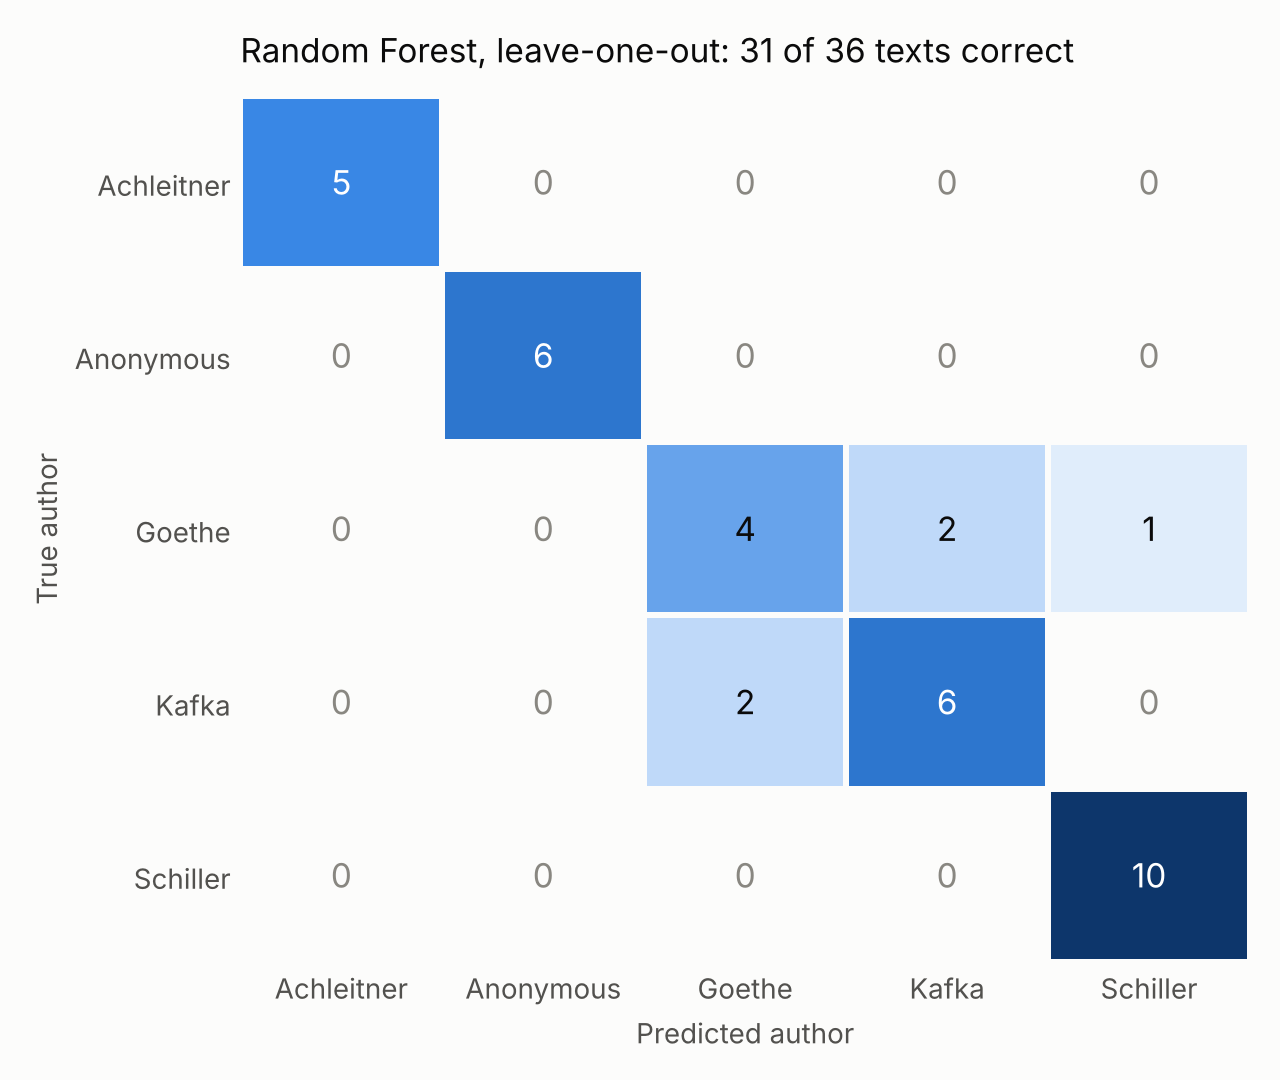
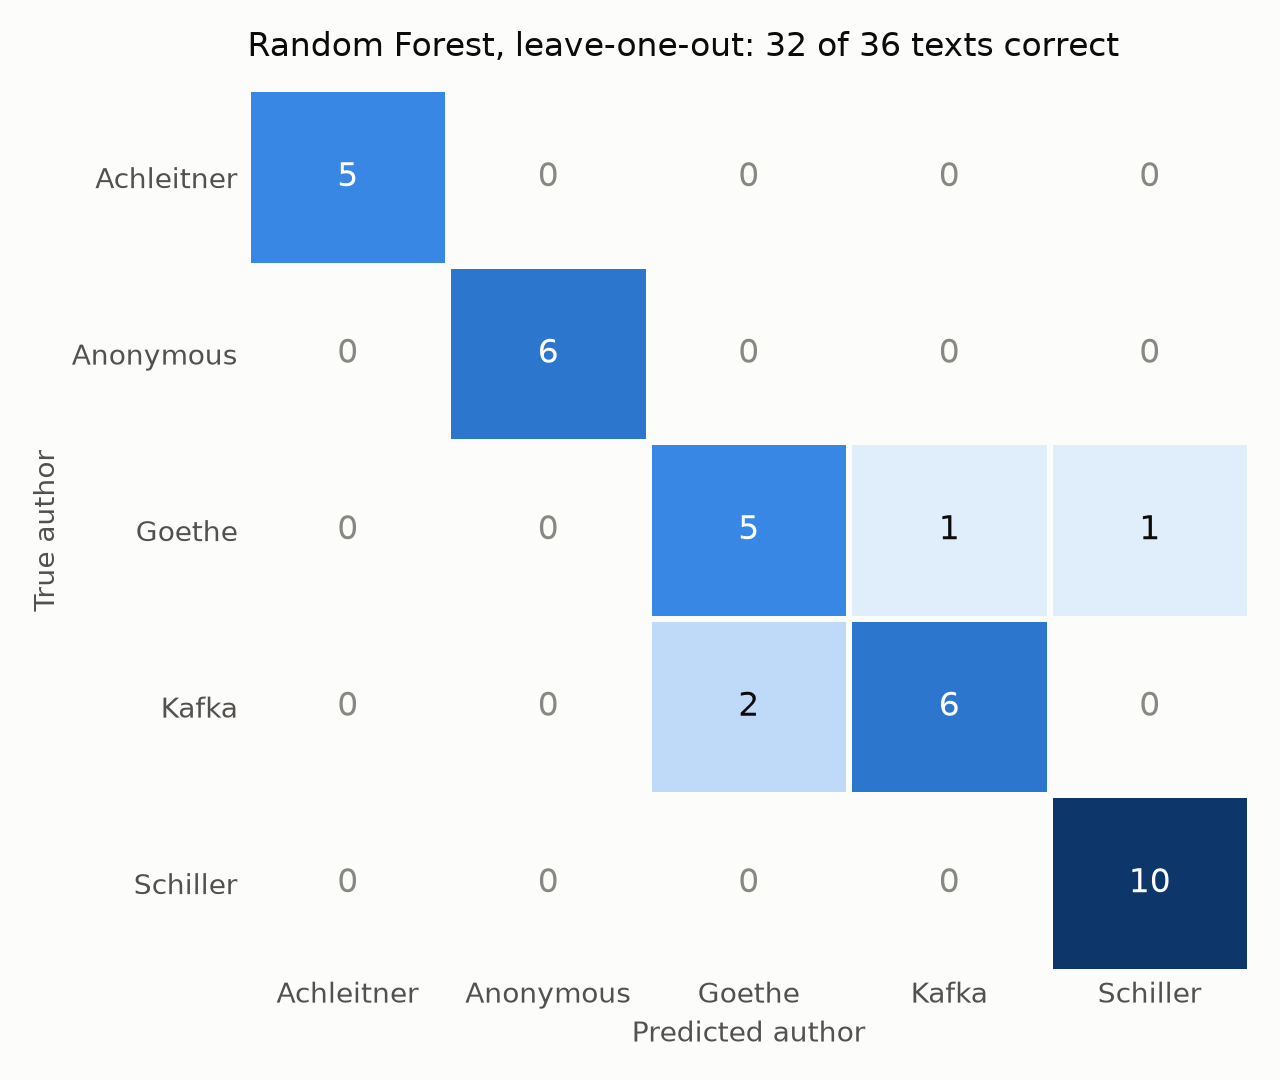
#5

diff --git a/README.md b/README.md
@@ -14,7 +14,7 @@ Can sentence length, punctuation and readability tell Goethe from Schiller? In t
 - **Task:** assign 36 public-domain texts to five authors (Goethe, Schiller, Kafka, Arthur Achleitner and an anonymous pulp series) using only *how* they are written, not *what* they are about.
 - **Features:** 12 stylometric measures per text, including two German readability indices I implemented from scratch.
 - **Models:** Decision Tree, Random Forest, linear SVM and a majority-vote ensemble (scikit-learn).
-- **Result:** the Random Forest reaches **87% accuracy** in repeated stratified cross-validation, against a 28% majority baseline (permutation test p = 0.005).
+- **Result:** the Random Forest reaches **89% accuracy** in repeated stratified cross-validation, against a 28% majority baseline (permutation test p = 0.005).
 - **Most interesting finding:** the models partly learned *genre* instead of *author*. All three classify Goethe's *Faust I* as Schiller.
 
 ## What I learned
@@ -37,27 +37,27 @@ Repeated stratified 5-fold cross-validation (20 repeats) on 36 texts:
 | Model | Accuracy (mean ± SD) | Macro-F1 |
 |---|---|---|
 | Majority baseline | 28% ± 1% | 0.09 |
-| Decision Tree | 70% ± 16% | 0.66 |
-| **Random Forest** | **87% ± 11%** | **0.84** |
-| Linear SVM | 83% ± 11% | 0.82 |
-| Linear SVM, 2 features (word + sentence length) | 70% ± 11% | 0.59 |
-| Voting ensemble (DT + RF + SVM) | 86% ± 11% | 0.85 |
+| Decision Tree | 68% ± 16% | 0.66 |
+| **Random Forest** | **89% ± 10%** | **0.87** |
+| Linear SVM | 81% ± 12% | 0.79 |
+| Linear SVM, 2 features (word + sentence length) | 56% ± 9% | 0.43 |
+| Voting ensemble (DT + RF + SVM) | 84% ± 12% | 0.83 |
 
-Permutation test (Random Forest): 84% accuracy with the real labels vs. 22% with shuffled labels, p = 0.005.
+Permutation test (Random Forest): 92% accuracy with the real labels vs. 22% with shuffled labels, p = 0.005.
 
 <p align="center">
-  <img src="figures/confusion_matrix_rf_loo.png" width="520" alt="Confusion matrix of the Random Forest in leave-one-out validation: 31 of 36 texts correct. Errors: two Goethe texts predicted as Kafka, two Kafka texts as Goethe, Faust I as Schiller.">
+    <img src="figures/confusion_matrix_rf_loo.png" width="520" alt="Confusion matrix of the Random Forest in leave-one-out validation: 32 of 36 texts correct. Errors: Faust I predicted as Schiller, Wilhelm Meisters Lehrjahre as Kafka, Die Verwandlung and Ein Hungerkünstler as Goethe.">
 </p>
 
 ### Findings
 
-**1. The models partly learn genre, not author.** Every Schiller text in this corpus is a drama, and dramas consist of short dialogue lines. All 12 dramas average fewer than 14 words per sentence, all 24 prose texts more. As a result, the Decision Tree, the Random Forest and the SVM all classify Goethe's *Faust I* as Schiller in leave-one-out validation.
+**1. The models partly learn genre, not author.** Every Schiller text in this corpus is a drama, and dramas consist of short dialogue lines. All ten Schiller plays and *Faust I* average fewer than 10 words per sentence, while no prose text averages fewer than 12.7. As a result, the Decision Tree, the Random Forest and the SVM all classify Goethe's *Faust I* as Schiller in leave-one-out validation. *Faust II*, at 13.6 words per sentence, falls among the shortest prose texts, and none of the models takes it for Schiller.
 
-![Average sentence length per text by author: every drama is below 14 words per sentence, every prose text above](figures/sentence_length_by_genre.png)
+![Average sentence length per text by author: the Schiller plays and Faust I are below 10 words per sentence, all prose texts above 12; Faust II lies among the shortest prose texts](figures/sentence_length_by_genre.png)
 
-**2. Goethe vs. Kafka is the hard case.** Four of the Random Forest's five leave-one-out errors are Goethe ↔ Kafka confusions. Both write long, comma-heavy sentences, which these surface features cannot tell apart.
+**2. Goethe vs. Kafka is the hard case.** Three of the Random Forest's four leave-one-out errors are Goethe ↔ Kafka confusions. Besides *Faust I*, two texts are misclassified by all three models: *Wilhelm Meisters Lehrjahre* as Kafka and *Ein Hungerkünstler* as Goethe. In their prose, both authors average about 22 words per sentence, against about 15 for Achleitner and the *Luftpirat* series, and both use more commas. These surface features cannot tell them apart.
 
-**3. The ensemble adds little.** On a single 8-text test split, the majority vote fixed every individual model's error (8 of 8 correct). Under repeated cross-validation it performs on par with the Random Forest alone.
+**3. The ensemble does not help.** On a single 8-text test split, the majority vote fixed every individual model's error (8 of 8 correct). Under repeated cross-validation it reaches 84%, slightly below the Random Forest alone (89%), probably because the two weaker models can outvote it.
 
 ### Original study vs. re-evaluation
 
@@ -65,8 +65,8 @@ Permutation test (Random Forest): 84% accuracy with the real labels vs. 22% with
 |---|---|---|
 | Corpus | 38 texts | 36 texts (two duplicate Kafka texts removed) |
 | Evaluation | one 80/20 split (8 test texts) + 10-fold CV without shuffling | repeated stratified 5-fold CV, baseline, permutation test |
-| Random Forest | 87.5% (split), 72.5% (CV) | 87% ± 11% |
-| Ensemble | 100% (8 of 8) | 86% ± 11% |
+| Random Forest | 87.5% (split), 72.5% (CV) | 89% ± 10% |
+| Ensemble | 100% (8 of 8) | 84% ± 12% |
 
 ## Lessons learned
 
@@ -139,7 +139,7 @@ jupyter lab                            # notebooks
 ```
 ├── data/                  # sources and cleaning: data/README.md
 │   ├── corpus/            # 36 cleaned texts
-│   ├── raw/               # texts before cleaning (original study)
+│   ├── raw/               # texts before cleaning
 │   └── features.csv       # 36 × 12 feature table
 ├── notebooks/             # feature exploration, one notebook per model, ensemble
 ├── scripts/evaluate.py    # cross-validation, baseline, permutation test, figures
